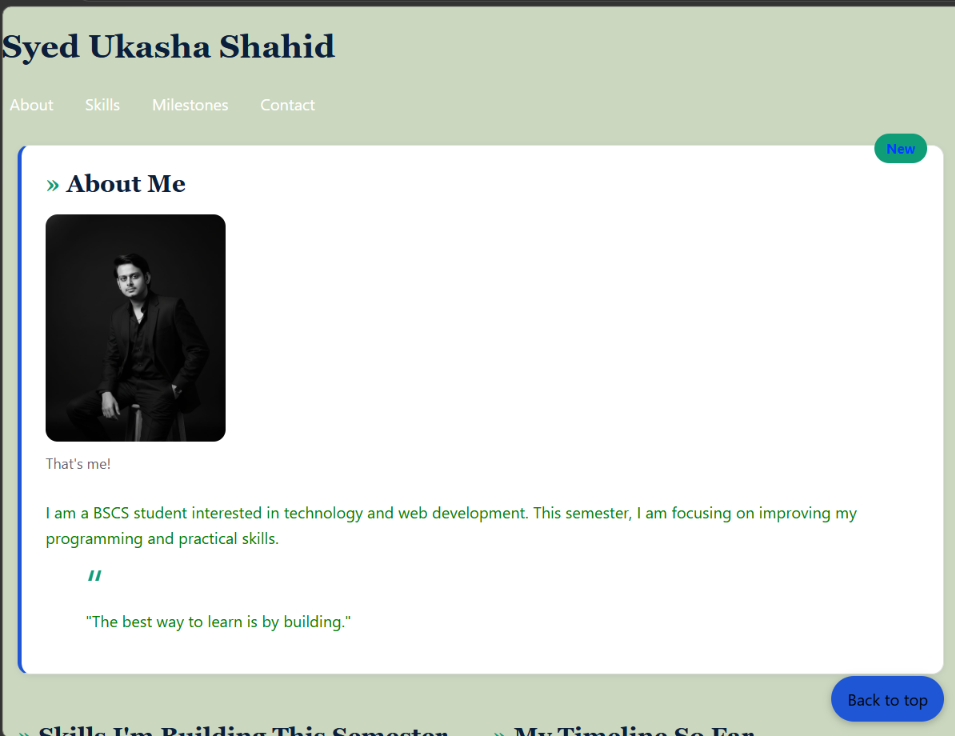
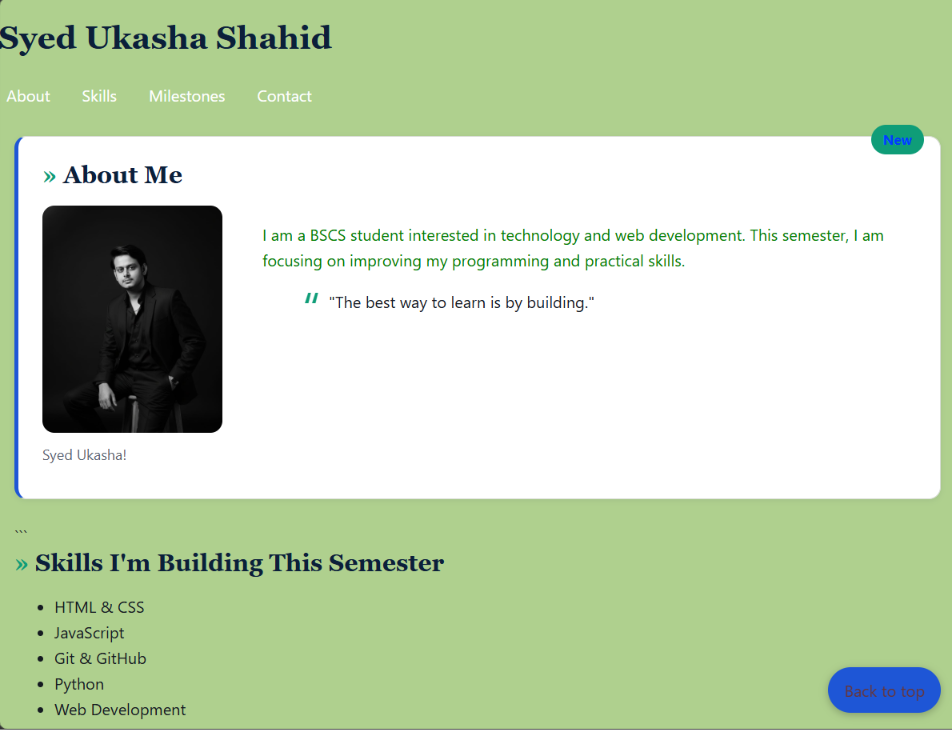
task7

diff --git a/index.html b/index.html
@@ -21,8 +21,7 @@
     </header>
 
     <main>
-        ```html
-        <article id="about" class="card">
+                <article id="about" class="card">
             <span class="badge">New</span>
 
             <h2>About Me</h2>
